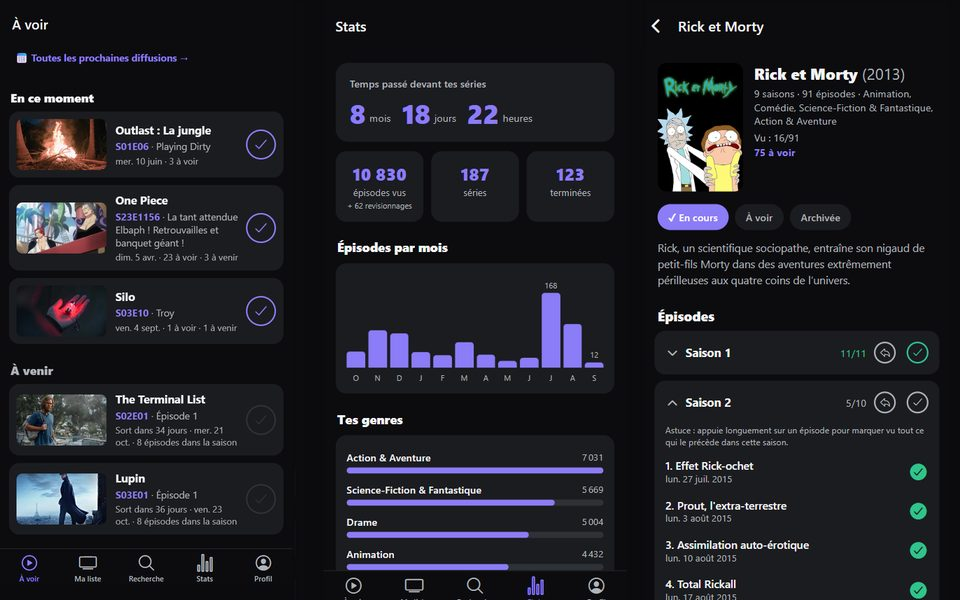
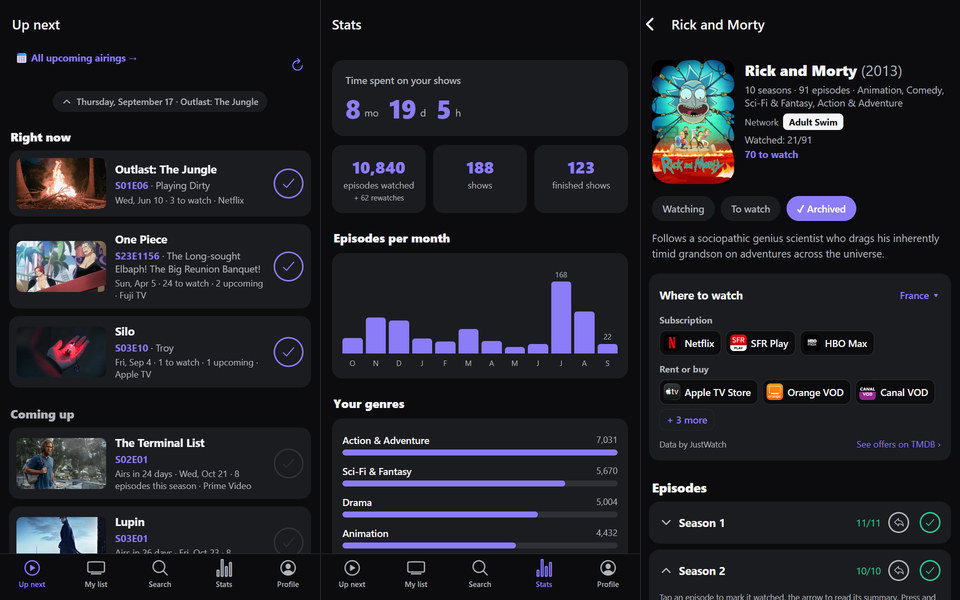
ShowTracker Sept update

diff --git a/content.js b/content.js
@@ -277,8 +277,8 @@ const PROJECTS_SIDE = [
     image: "assets/projects/showtracker.jpg",
     title: { en: "ShowTracker", fr: "ShowTracker" },
     desc: {
-      en: "TV Time shut down and none of the replacements did the job, so I built my own, and I keep adding what I need: shows episode by episode, films, manga scans and stats. Android, iOS and web from one codebase, used by family and friends.",
-      fr: "TV Time a fermé et aucun remplaçant ne me convenait, alors j'ai construit le mien, et j'y ajoute ce qui m'intéresse : séries épisode par épisode, films, scans et statistiques. Android, iOS et web depuis une seule base de code, utilisé par la famille et les amis."
+      en: "TV Time shut down and none of the replacements did the job, so I built my own, and I keep adding what I need: shows episode by episode, films, manga scans and stats. Android, iOS and web from one codebase, used by family and friends. Want to try it? Ask for access from the sign-in page (“No account yet?”): I approve each request by hand so not too many people join at once, but don't hesitate!",
+      fr: "TV Time a fermé et aucun remplaçant ne me convenait, alors j'ai construit le mien, et j'y ajoute ce qui m'intéresse : séries épisode par épisode, films, scans et statistiques. Android, iOS et web depuis une seule base de code, utilisé par la famille et les amis. Envie d'essayer ? Demande un accès depuis l'écran de connexion (« Pas encore de compte ? ») : je valide chaque demande à la main pour éviter que trop de monde arrive d'un coup, alors n'hésite pas !"
     },
     figs: [
       { en: "3 platforms · 1 codebase", fr: "3 plateformes · 1 base de code" },
